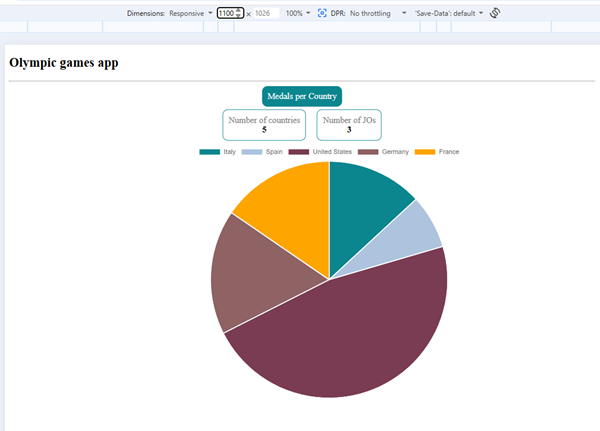
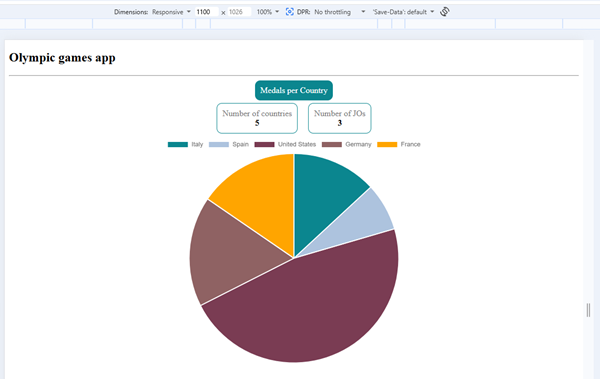
Fix responsive home page

Changed region(s): [[0.0, 0.1161, 0.99, 0.9578], [0.18, 0.0, 0.84, 0.058]]

diff --git a/src/app/pages/home/home.component.scss b/src/app/pages/home/home.component.scss
@@ -1,0 +1,19 @@
+
+.wrapper-container {
+    display: flex;
+    justify-content: center;
+}
+
+.container {
+    width: 50%;
+    h2{
+        text-align: center;
+        color: gray;
+    }
+}
+
+@media screen and (max-width: 1000px) {
+    .container {
+        width: 100%;
+    }
+}